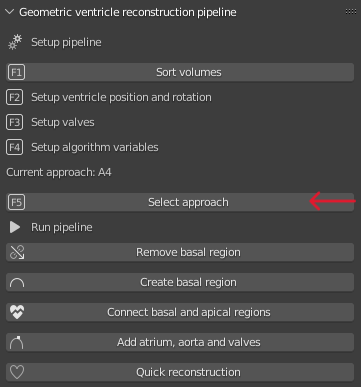
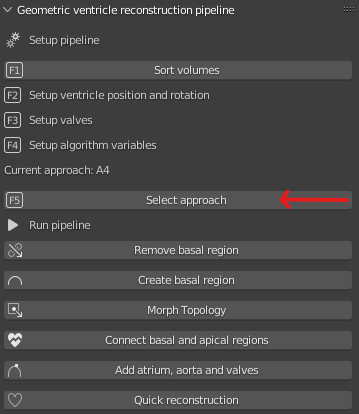
feat: updated README.md

diff --git a/addons/geometrical_heart_reconstruction.py b/addons/geometrical_heart_reconstruction.py
@@ -2054,7 +2054,7 @@ class PANEL_Pipeline(bpy.types.Panel):
         layout.operator('heart.create_basal', text= "Create basal region", icon = 'SPHERECURVE')
         # Topologically Transforming multiple object to all have the same topology by transforming one reference object into everything else
         row = layout.row()
-        layout.operator('heart.object_transform', text = "Morph Topology", icon = "TRANSFORM_ORIGINS")
+        layout.operator('heart.object_transform', text = "Morph topology", icon = "TRANSFORM_ORIGINS")
         
         row = layout.row()
         layout.operator('heart.connect_apical_and_basal', text= "Connect basal and apical regions", icon = 'ORPHAN_DATA')

diff --git a/README.md b/README.md
@@ -122,22 +122,37 @@ F1 and F5 includes a clickable button for sorting the volumes and selecting the 
     \
     Change the valve modeling approach.
 ## Run pipeline
-Select all ventricle objects and either run all steps with the button 'Quick reconstruction' in the panel 'Geometric ventricle reconstruction pipeline' or do the following steps for a more comprehensive execution of the pipeline:\
+Select all ventricle objects and either run all steps with the button 'Quick reconstruction' in the panel 'Geometric ventricle reconstruction pipeline', which simply just runs all the previous steps automaticall or do the following steps for a more comprehensive execution of the pipeline:\
 ![Image of the setup pipeline](/readme_images/Pipeline_optional.png)
 1. Remove basal region\
     1.1. Press button 'Remove basal region' in the panel 'Geometric ventricle reconstruction pipeline'\
     \
     This removes all vertices above the z-value for a reference ventricle. The vertices of the other ventricle object with identical indices to the deleted one in the reference are also deleted. The upper edge loop is smoothed such that all its vertices lay on the same xy-plane. Lastly the ventricle objects are shifted along the z-axis such that all xy-planes match with the reference ventricle xy-plane.
+
 2. Create basal region\
-    2.1. Press button 'Create basal region' in the panel 'Geometric ventricle reconstruction pipeline'\
+    2.1. Select all the ventricles, for which basal regions are to be generated for\
+    2.2. Press button 'Create basal region' in the panel 'Geometric ventricle reconstruction pipeline'\
     \
-    This creates a reference basal region used the selected object. For that first the valve indices and a support structure are added to a copy of the reference ventricle. Then the Poisson surface reconstruction is applied to the vertices to create a surface object from all vertices. After that the object is remeshed and the apical region is removed while smoothing the lower edge loop of the resulting basal region. If multiple objects are selected, then a basal region will be created for each of the selected object, however, these basal regions will most likely not share the same topology. The button "Mesh Transformation" is required to remesh the objects to share the same topology.
-3. Connect basal and apical parts\
-    3.1. Press button 'Connect basal and apical regions' in the panel 'Geometric ventricle reconstruction pipeline'\
+    This creates a reference basal region used the selected objects. For that first the valve indices and a support structure are added to a copy of the reference ventricle. Then the Poisson surface reconstruction is applied to the vertices to create a surface object from all vertices. After that the object is remeshed and the apical region is removed while smoothing the lower edge loop of the resulting basal region. If multiple objects are selected, then a basal region will be created for each of the selected object, however, these basal regions will most likely not share the same topology. 
+    The generated basal region will automatically be selected.
+    The button "Morph Topology" is required to remesh the objects to share the same topology.
+
+3. Morph Topology\
+    3.1 Select all the basal regions to be morphed\
+    3.2 Press button 'Morph Topology' in the panel 'Geometric ventricle reconstruction pipeline'\
     \
-    This creates a copy of the reference basal region for all apical region ventricle objects and connects them with the looptools_bridge function from the Blender addon Looptools. Since this connection creates long quadrangular faces, the faces need to be split using an integrated insetting algorithm leading to faces where the deviation of edge lengths are reduced. After that the faces are triangulated and iteratively smoothed. These processes are done for the reference ventricle object first and then copied to the other ventricles to remain node-connectivity.
-4. Add atrium, aorta and valves\
-    4.1. Press button 'Add atrium, aorta and valves' in the panel 'Geometric ventricle reconstruction pipeline'\
+    This first selects the basal object with the highest mesh count as the "reference" object. Then for each of the other object, a copy of the reference object is created, then transformed until different methods into the target object. The resulting object would then share topology with the "reference" object, but would be in the shape of the target object. The old object (the target with mismatching topology) is then deleted.
+    As result, the basal regions generated will automatically be selected for the next step.
+
+4. Connect basal and apical parts\
+    4.1 Select the basal regions to be connected with its' matching ventricle\
+    4.2. Press button 'Connect basal and apical regions' in the panel 'Geometric ventricle reconstruction pipeline'\
+    \
+    This connects every basal for all matching apical region ventricle objects and connects them with the looptools_bridge function from the Blender addon Looptools. Since this connection creates long quadrangular faces, the faces need to be split using an integrated insetting algorithm leading to faces where the deviation of edge lengths are reduced. After that the faces are triangulated and iteratively smoothed. These processes are done for every basal and apical region ventricle objects.
+    In this process, the valve connection is always at a fixed position, therefore no selection is necessary for the next step.
+
+5. Add atrium, aorta and valves\
+    5.1. Press button 'Add atrium, aorta and valves' in the panel 'Geometric ventricle reconstruction pipeline'\
     \
     This copies objects for aorta, atrium, mitral and aortic valve found in the Blender-project and scales, rotates and positions them at their respective places.
 
